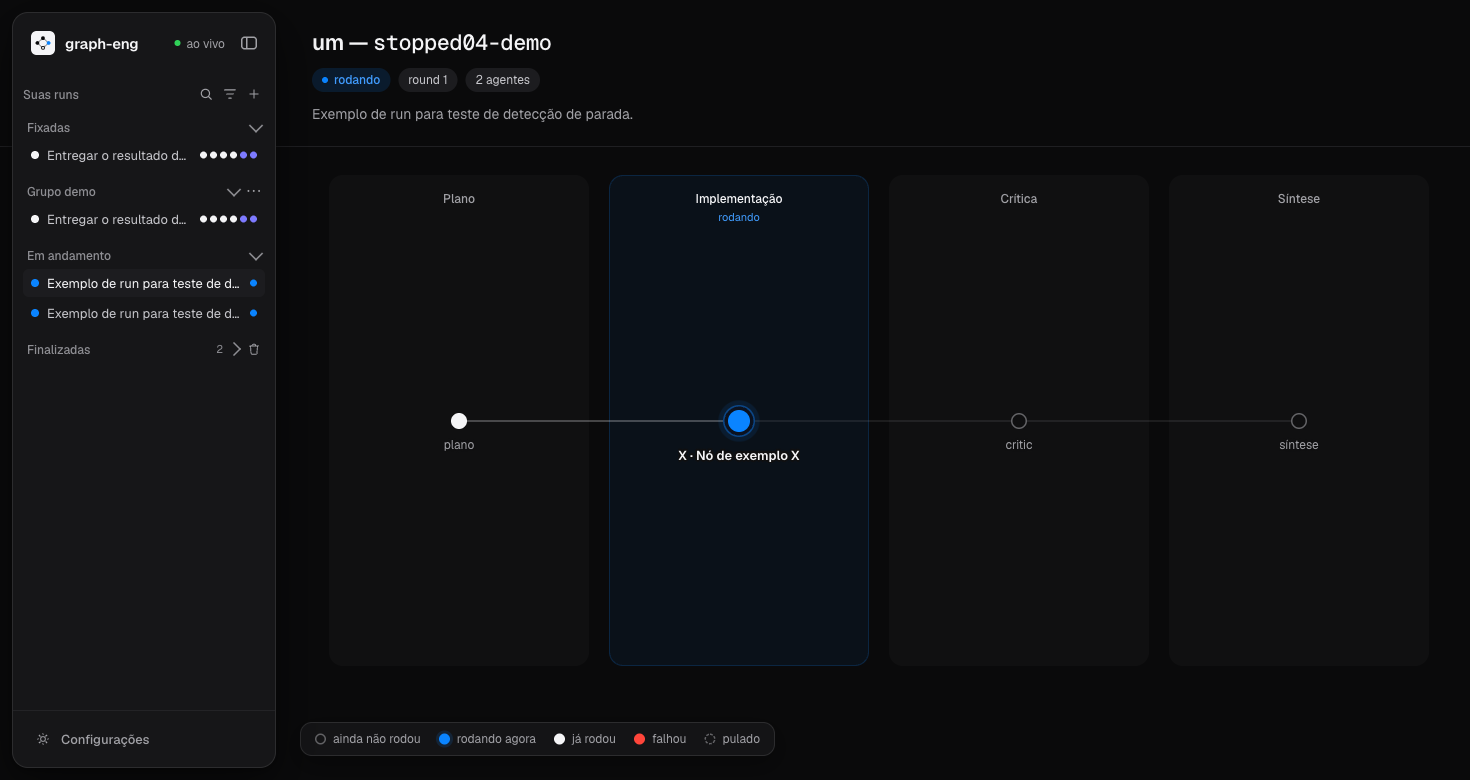
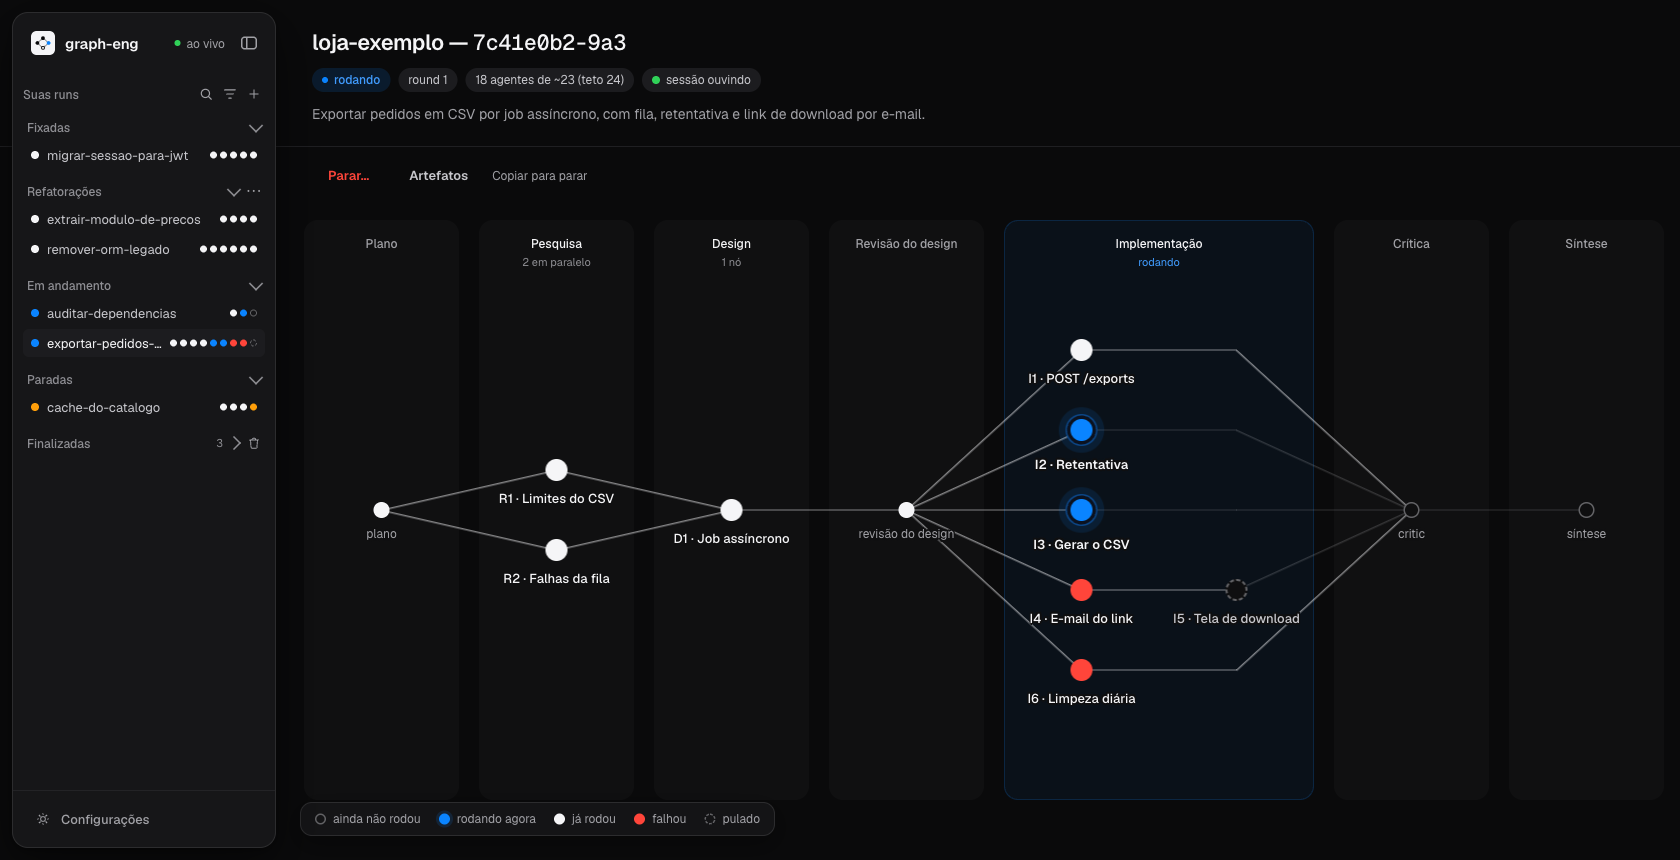
docs: prints do README com uma run fictícia e acertos de texto
Os prints do painel eram cópias dos do I6, com um nó só e nomes de fixture
cortados. Os novos saem de uma demo fictícia (loja-exemplo, api-pagamentos), sem
nenhum dado de ~/.claude: o grafo em sete fases com nó pronto, rodando,
bloqueado, falho e pulado, e a lateral com todas as seções. A seção "Ações sobre
uma run" ganha um print próprio: run parada, Retomar habilitado e a gaveta de um
nó falho com o motivo.

Texto: sai a frase "Só Claude Code — sem seção para Codex…", que era instrução e
não conteúdo; sai a referência a ref-bolinhas-lista.png, que só existe no run dir;
e o STRIP_MAX deixa de vir com "'s" no meio do português.

diff --git a/README.md b/README.md
@@ -49,7 +49,7 @@ PLAN ─▶ PESQUISA ─▶ DESIGN ─▶ REVISÃO DO DESIGN ─▶ [ DAG: work 
   <picture>
     <source media="(prefers-color-scheme: dark)" srcset="docs/assets/painel-dark.png">
     <source media="(prefers-color-scheme: light)" srcset="docs/assets/painel-light.png">
-    <img src="docs/assets/painel-light.png" width="860" alt="Painel do graph-eng com uma run de exemplo: lista lateral com Fixadas, um grupo e Em andamento, e o grafo de fases em colunas com uma bolinha por nó">
+    <img src="docs/assets/painel-light.png" width="860" alt="Painel do graph-eng com uma run fictícia rodando: na lateral, as runs em Fixadas, num grupo, Em andamento, Paradas e Finalizadas recolhida; no centro, o grafo em sete colunas de fase, com nós prontos, rodando, bloqueado, falho e pulado">
   </picture>
 </p>
 
@@ -87,8 +87,6 @@ O workflow **nunca** faz commit, push, deploy nem migration remota. Isso fica no
 - `node` no `PATH`. O painel e a config rodam em Node puro, sem `npm install`. Testado no Node 22.
 
 ## Instalação
-
-Só Claude Code — sem seção para Codex, Gemini ou outro agente.
 
 ### Numa sessão do Claude Code
 
@@ -205,6 +203,14 @@ executa a ação direto: ele **pede**, e a sessão do Claude que está ouvindo *
 ação depende de haver uma sessão ouvindo (ver abaixo); sem ela, sobra o botão **Copiar comando**, que
 funciona sempre.
 
+<p align="center">
+  <picture>
+    <source media="(prefers-color-scheme: dark)" srcset="docs/assets/acoes-dark.png">
+    <source media="(prefers-color-scheme: light)" srcset="docs/assets/acoes-light.png">
+    <img src="docs/assets/acoes-light.png" width="860" alt="Run parada no painel: Retomar habilitado, Parar desabilitado porque a sessão dona não está ouvindo, e a gaveta de um nó falho com o motivo, o botão Refazer nó e o histórico de verificações e reparos">
+  </picture>
+</p>
+
 ### Como o pedido chega até a sessão
 
 1. O painel grava o pedido — `resume`, `stop` ou `rerun-node` — numa fila em arquivo
@@ -281,9 +287,9 @@ A lateral organiza as runs como no Claude Code:
 - A organização (fixada, grupo, arquivada) é gravada ao lado da config, pela **chave da run**: o
   `runId`, não o `wf`. Uma run retomada nasce com outro `wf`, e é por isso que ela continua fixada ou no
   mesmo grupo depois de retomada.
-- **Resumo compacto das bolinhas**: até `X` nós (padrão 10, `bin/ui/sidebar.mjs`'s `STRIP_MAX`), a linha
+- **Resumo compacto das bolinhas**: até `X` nós (padrão 10, `STRIP_MAX` em `bin/ui/sidebar.mjs`), a linha
   da run mostra uma bolinha por nó, igual ao grafo. Acima de `X`, a fileira quebrava em 2-3 linhas e
-  desalinhava a lista (print `ref-bolinhas-lista.png`), então a linha passa a mostrar um **resumo por
+  desalinhava a lista, então a linha passa a mostrar um **resumo por
   estado** — uma bolinha com a contagem de nós com erro, rodando e concluídos, em vez de uma por nó. O
   texto por extenso (quantos de cada estado) vai no `title` e no `aria-label`, nunca só no visual.
 

diff --git a/skills/graph-eng/DESIGN.md b/skills/graph-eng/DESIGN.md
@@ -356,9 +356,8 @@ não existe um `.ico` de verdade, mas todo navegador que bate nesse caminho acei
 ### Resumo compacto das bolinhas na lista, acima de X nós
 
 A linha de cada run na lateral mostrava uma bolinha por nó do grafo, igual ao grafo grande — e numa run
-com muitos nós (o teto de hoje chega a 50) a fileira quebrava em 2 ou 3 linhas, desalinhando a lista
-inteira (print `ref-bolinhas-lista.png`, no run dir desta run). Acima de `STRIP_MAX` nós (`bin/ui/
-sidebar.mjs`, hoje 10 — escolhido por ser a maior contagem que ainda cabe numa linha sem quebrar nas
+com muitos nós a fileira quebrava em 2 ou 3 linhas, desalinhando a lista inteira. Acima de `STRIP_MAX`
+nós (`bin/ui/sidebar.mjs`, hoje 10 — escolhido por ser a maior contagem que ainda cabe numa linha sem quebrar nas
 larguras testadas), a linha troca a fileira de bolinhas por um resumo por estado: uma bolinha com a
 contagem de nós com erro, rodando e concluídos. O texto por extenso continua indo para `title` e
 `aria-label`, porque o resumo visual comprime a informação, não a esconde de quem usa leitor de tela ou
